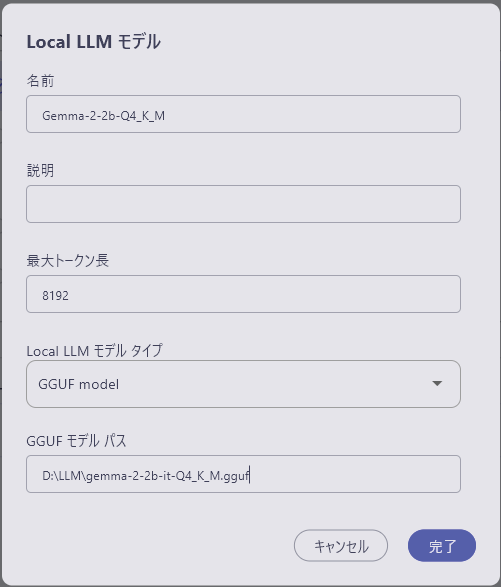
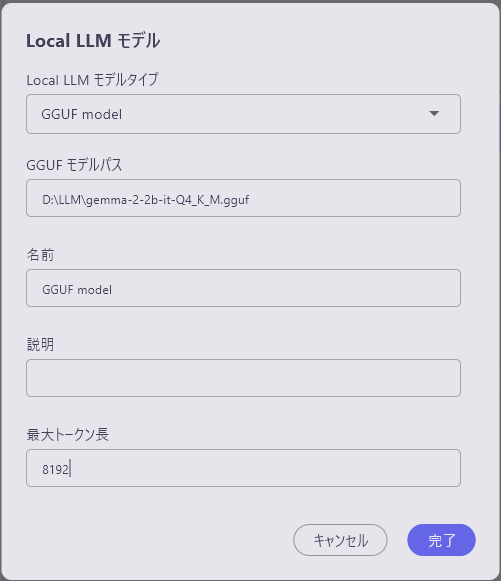
ローカルLLMモデルページ修正
MacOS用の推奨スペックを追記
他、タイポの修正等

diff --git a/ja-beta/LocalLLM.html b/ja-beta/LocalLLM.html
@@ -722,17 +722,23 @@
                                         <h1 id="ローカルllmの設定">ローカルLLMの設定</h1>
                                         <p>GGUF形式で圧縮されたLLMモデルを使用することで、ailia DX Insightの中だけで簡単にローカルLLMとの接続をすることができます。</p>
                                         <p>ローカルLLMを実行するために必要なPC条件は下記となります。</p>
+                                        <h3 id="windowsの場合">Windowsの場合</h3>
                                         <ul>
-                                        <li>2bモデルの動作条件<pre><code>GPU実行：Vulkan 1.1以降に対応したVRAMを4GB以上搭載したGPU<br>CPU実行：AVX2に対応したCPU、8GB以上のメモリ</code></pre></li>
-                                        <li>9bモデルの動作条件<pre><code>GPU実行：Vulkan 1.1以降に対応したVRAMを6GB以上搭載したGPU<br>CPU実行：AVX2に対応したCPU、8GB以上のメモリ</code></pre></li>
+                                            <li>2bモデルの動作条件<pre><code>GPU実行：Vulkan 1.1以降に対応したVRAMを4GB以上搭載したGPU<br>実行：AVX2に対応したCPU、8GB以上のメモリ</code></pre></li>
+                                            <li>9bモデルの動作条件<pre><code>GPU実行：Vulkan 1.1以降に対応したVRAMを6GB以上搭載したGPU<br>CPU実行：AVX2に対応したCPU、8GB以上のメモリ</code></pre></li>
+                                        </ul>
+                                        <h3 id="macosの場合">MacOSの場合</h3>
+                                        <ul>
+                                            <li>2bモデルの動作条件<pre><code>8GB以上のメモリを搭載したApple Silicon</code></pre></li>
+                                            <li>9bモデルの動作条件<pre><code>16GB以上のメモリを搭載したApple Silicon</code></pre></li>
                                         </ul>
                                         <h2 id="ailia-dx-insight内でのローカルllmの構築">ailia DX Insight内でのローカルLLMの構築</h2>
                                         <ol>
-                                        <li>設定<img src="img/icon_gear.png" alt="gear">の中のチャットAIの項目を選択し、「ローカル（ailiaLLM）」の「+追加」を選択します。</li>
+                                        <li>設定<img src="img/icon_gear.png" alt="gear">の中のチャットAIの項目を選択し、「ローカル（ailia LLM）」の「+追加」を選択します。</li>
                                         </ol>
                                         <p><img src="img/localLLM01.png" alt="localLLM01"></p>
                                         <ol>
-                                        <li>ローカルLLMモデル登録用ウィンドウが開きます。まずはじめに「Locakl LLM モデルタイプ」の項目を選択します。<br>
+                                        <li>ローカルLLMモデル登録用ウィンドウが開きます。まずはじめに「Local LLM モデルタイプ」の項目を選択します。<br>
                                         <img src="img/localLLM03.png" alt="localLLM03"><br></li>
                                         </ol>
                                         <h3 id="規定のllmから選択する">規定のLLMから選択する</h3>
@@ -748,11 +754,11 @@
                                         <p>各項目を入力します。<br>
                                         <img src="img/localLLM02.png" alt="localLLM02"><br></p>
                                         <ul>
+                                        <li>local LLM モデルタイプ：GGUF modelを選択</li>
+                                        <li>GGUFモデルパス：GGUFファイルのディレクトリを入力</li>
                                         <li>名前：使用するLLMの名称 (UI表示にのみ使用するため何でも構わない)</li>
                                         <li>説明：必要に応じてメモとして使用</li>
-                                        <li>最大トークン長：ダウンロードしたモデルの名称</li>
-                                        <li>local LLM モデルタイプ：GGUF modelを選択</li>
-                                        <li>最大トークン長：GGUFファイルのディレクトリを入力
+                                        <li>最大トークン長：ダウンロードしたモデルに応じたものを入力
                                         <br></li>
                                         </ul>
                                         <h4 id="次のページへ ＞"><a href="Benchmark.html">次のページへ ＞</a></h4>

diff --git a/ja-beta/DocumentFile.html b/ja-beta/DocumentFile.html
@@ -758,7 +758,7 @@
                                         しかし、要件によってはテキストのすべての要素を洗い出したい場面があります。<br>
                                         その場合は、文章ファイルを右クリックして、「この文章全体を渡して質問（DOC）」を選択してください。<br>
                                         <img src="img/UseAI_08_07_01.png" alt="useai_08_07_01.png"><br>
-                                        DOCの場合、RAGによる情報検索をを行わず、ドキュメント全体をChatGPTに投げます。コストはかかりますが、より高精度になります。なお、チャットを継続した場合も、その都度、ドキュメント全体のトークンのコストがかかります。</p>
+                                        DOCの場合、RAGによる情報検索をを行わず、ドキュメント全体をLLMに投げます。コストはかかりますが、より高精度になります。なお、チャットを継続した場合も、その都度、ドキュメント全体のトークンのコストがかかります。</p>
                                         <h2 id="複数の文書ファイルについて質問する">複数の文書ファイルについて質問する</h2>
                                         <p>関連の文書ファイルをフォルダにまとめておくことで、フォルダ内の複数文書ファイルに跨った内容の質問をすることができます。<br>
                                         画面左上のアプリメニューはチャットの状態にしておいてください。<br></p>

diff --git a/tools/migration/ja/index.html b/tools/migration/ja/index.html
@@ -11,7 +11,7 @@
     <p><img src="img/ailia_DX_logo_mini.jpg" alt="ロゴ" width="200px"></p>
     <div class="markdown-section">
         
-        <h1>DX Insight データベース移行について</h1>
+        <h1>DX Insight ユーザデータ移行について</h1>
         <p>PCを買い替えた場合などに、ユーザデータを移行する方法を説明します。</p>
         <h2>ユーザデータの格納先について</h2>
         <p>ailia DX Insightでは、「ユーザ/ドキュメント/ailia DX Insight/」フォルダにユーザデータが保存されています。<br>
